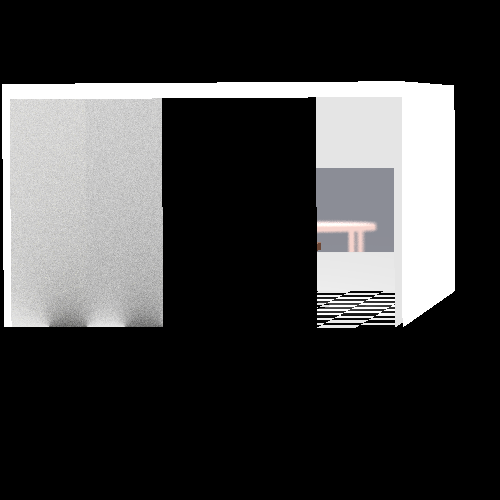
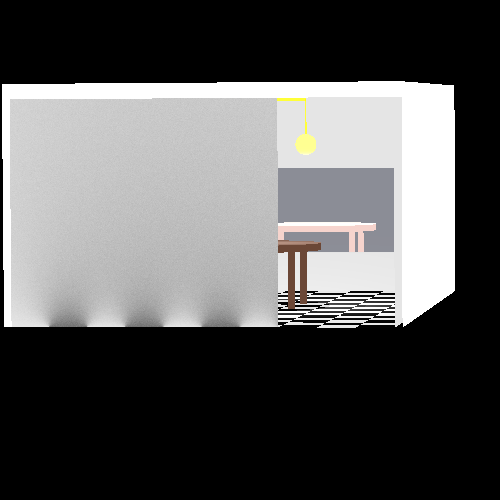
balls

Changed region(s): [[0.3, 0.18, 0.75, 0.66]]

diff --git a/unitTests/renderer/ImprovementTest.java b/unitTests/renderer/ImprovementTest.java
@@ -151,7 +151,8 @@ public class ImprovementTest {
         Point w33 = new Point(-260, -80, -590);
         Point w44 = new Point(260, -80, -590);
         scene1._geometries.addAll(new Wall(w11, w22, w33, w44, 295, new Color(WHITE), new Material().setKd(0.7))._parts);
-//front1
+/*
+        //front1
         Point wf11 = new Point(-150, -80, 260);
         Point wf12 = new Point(-260, -80, 260);
         Point wf13 = new Point(-260, 215, 260);
@@ -166,36 +167,42 @@ public class ImprovementTest {
         Point wf24 = new Point(-50, 215, 260);
         scene1._geometries.add(new Polygon(wf21,wf22,wf23,wf24).setEmission(new Color(BLACK))
                 .setMaterial(new Material().setKd(0.2).setKs(0.2).setnShininess(30).setKt(0.9).setKg(0.4)));
+ */
 
         //front3
-        Point wf31 = new Point(50, -80, 260);
-        Point wf32 = new Point(-50, -80, 260);
-        Point wf33 = new Point(-50, 215, 260);
-        Point wf34 = new Point(50, 215, 260);
+        Point wf31 = new Point(100, -80, 260);
+        Point wf32 = new Point(-260, -80, 260);
+        Point wf33 = new Point(-260, 215, 260);
+        Point wf34 = new Point(100, 215, 260);
         scene1._geometries.add(new Polygon(wf31,wf32,wf33,wf34).setEmission(new Color(BLACK))
-                .setMaterial(new Material().setKd(0.2).setKs(0.2).setnShininess(30).setKt(0.9).setKg(0.6)));
+                .setMaterial(new Material().setKd(0.2).setKs(0.2).setnShininess(30).setKt(0.9).setKg(0.49)));
 
+
+/*
         //front4
         Point wf41 = new Point(150, -80, 260);
         Point wf42 = new Point(50, -80, 260);
         Point wf43 = new Point(50, 215, 260);
         Point wf44 = new Point(150, 215, 260);
         scene1._geometries.add(new Polygon(wf41,wf42,wf43,wf44).setEmission(new Color(BLACK))
-                .setMaterial(new Material().setKd(0.2).setKs(0.2).setnShininess(30).setKt(0.9).setKg(0.8)));
+                .setMaterial(new Material().setKd(0.2).setKs(0.2).setnShininess(30).setKt(1).setKg(0.5)));
 
+
+ */
         //front5
         Point wf51 = new Point(260, -80, 260);
-        Point wf52 = new Point(150, -80, 260);
-        Point wf53 = new Point(150, 215, 260);
+        Point wf52 = new Point(100, -80, 260);
+        Point wf53 = new Point(100, 215, 260);
         Point wf54 = new Point(260, 215, 260);
         scene1._geometries.add(new Polygon(wf51,wf52,wf53,wf54).setEmission(new Color(BLACK))
                 .setMaterial(new Material().setKd(0.2).setKs(0.2).setnShininess(30).setKt(0.9).setKg(1)));
+
         //mirror
         Point m1 = new Point(200, -20, -590);
         Point m2 = new Point(-200, -20, -590);
         Point m3 = new Point(-200, -20, -588);
         Point m4 = new Point(200, -20, -588);
-        scene1._geometries.addAll(new Wall(m1, m2, m3, m4, 130, mirrorColor, new Material().setKr(1).setKg(0.99))._parts);
+        scene1._geometries.addAll(new Wall(m1, m2, m3, m4, 130, mirrorColor, new Material().setKr(1).setKg(1))._parts);
 
 
         //right
@@ -276,10 +283,7 @@ public class ImprovementTest {
         camera1.rotateCamera(new Vector(0, 0.999, -0.0425), 8);
         camera1.setImageWriter(imageWriter) //
                 .setRayTracer(new RayTracerBasic(scene1)) //
-                .setMultithreading(3)//
-                .setDebugPrint()//
                 .renderImage(); //
-
         camera1.writeToImage();//
 
 

diff --git a/unitTests/renderer/FinalTest.java b/unitTests/renderer/FinalTest.java
@@ -1,0 +1,70 @@
+package renderer;
+
+import objects.Table;
+import objects.Tile;
+import objects.Wall;
+import org.junit.jupiter.api.Test;
+
+import lighting.*;
+import geometries.*;
+import primitives.*;
+import renderer.scene.Scene;
+
+import java.util.Arrays;
+import java.util.Random;
+
+import static java.awt.Color.*;
+
+
+public class FinalTest {
+    Random rand = new Random();
+    private Scene scene1 = new Scene.SceneBuilder("Test scene").build();
+    private Camera camera1 = new Camera(new Point(0, 0, 1000), new Vector(0, 0, -1), new Vector(0, 1, 0)) //
+            .setVPSize(150, 150) //
+            .setVPDistance(1000);
+
+    @Test
+    // A test for the scene of the spheres.
+    public void sphereSpot() {
+        Point center = new Point(-60,0,0);
+        for(int i=0;i<5;i++){
+            for(int j=0;j<5;j++){
+                Sphere sphere = (Sphere) new Sphere(center.add(new Vector(30*(j+0.001),0,-40*(i+0.001))),10d)
+                        .setMaterial(new Material().setKs(0.5).setKd(0.5).setKg(1));
+                //if(i==j)
+                    sphere.setEmission(new Color(rand.nextInt(256),rand.nextInt(256),rand.nextInt(256)));
+                //else
+                  //  sphere.setEmission(new Color(136,139,141));
+
+                scene1._geometries.add(sphere);
+
+        }
+            scene1._geometries.add(
+                    new Sphere(new Point(-40,55,-150), 20)
+                            .setEmission(new Color(136,139,141))
+                            .setMaterial(new Material().setKs(0.5).setKd(0.5).setKr(1).setKg(1))
+            );
+        }
+        scene1._geometries.add(new Polygon(
+                new Point(-70,-10,40),
+                new Point(70,-10,40),
+                new Point(70,-10,-160),
+                new Point(-70,-10,-160))
+                .setEmission(new Color(BLACK))
+                .setMaterial(new Material().setKs(0.2).setKd(0.5).setKr(0.7).setKg(0.9))
+
+        );
+        scene1._lights.add(new SpotLight(new Color(WHITE), new Point(-100,200,-800), new Vector(0.1,-0.2,1)).set_shorten(0.1));
+        ImageWriter imageWriter = new ImageWriter("balls", 500, 500);
+        camera1.setFocusField(1800);
+        Camera camera1 = new Camera(new Point(0, 500, 950), new Vector(0, -0.432, -0.901), new Vector(0, 0.901, -0.432)) //
+                .setVPSize(150, 150) //
+                .setVPDistance(1000);
+        camera1.moveCamera(new Vector(400, 0, 0));
+        camera1.rotateCamera(new Vector(0, 0.901, -0.432), 19.45);
+        camera1.setImageWriter(imageWriter) //
+                .setRayTracer(new RayTracerBasic(scene1)) //
+                .renderImage(); //
+        camera1.writeToImage();//
+    }
+}

diff --git a/src/renderer/RayTracerBasic.java b/src/renderer/RayTracerBasic.java
@@ -334,7 +334,6 @@ public class RayTracerBasic extends RayTracer {
      */
     private Ray[] constructReflectedRays(Point point, Vector v, Vector n, Double3 kG) {
         Vector n2vn = n.scale(-2 * v.dotProduct(n));
-      //  Vector r = v.add(n2vn);
         Vector r = new Vector( n2vn.add(v).get_xyz());
         // If kG is equals to 1 then return only 1 ray, the specular ray (r)
         if (Double3.ONE.equals(kG)) {

diff --git a/src/renderer/Camera.java b/src/renderer/Camera.java
@@ -23,7 +23,7 @@ public class Camera {
         return _numOfBeams;
     }
 
-    private int _numOfBeams = 4;
+    private int _numOfBeams = 100;
     private final int SPARE_THREADS = 2;
     /**
      * right direction vector from camera
